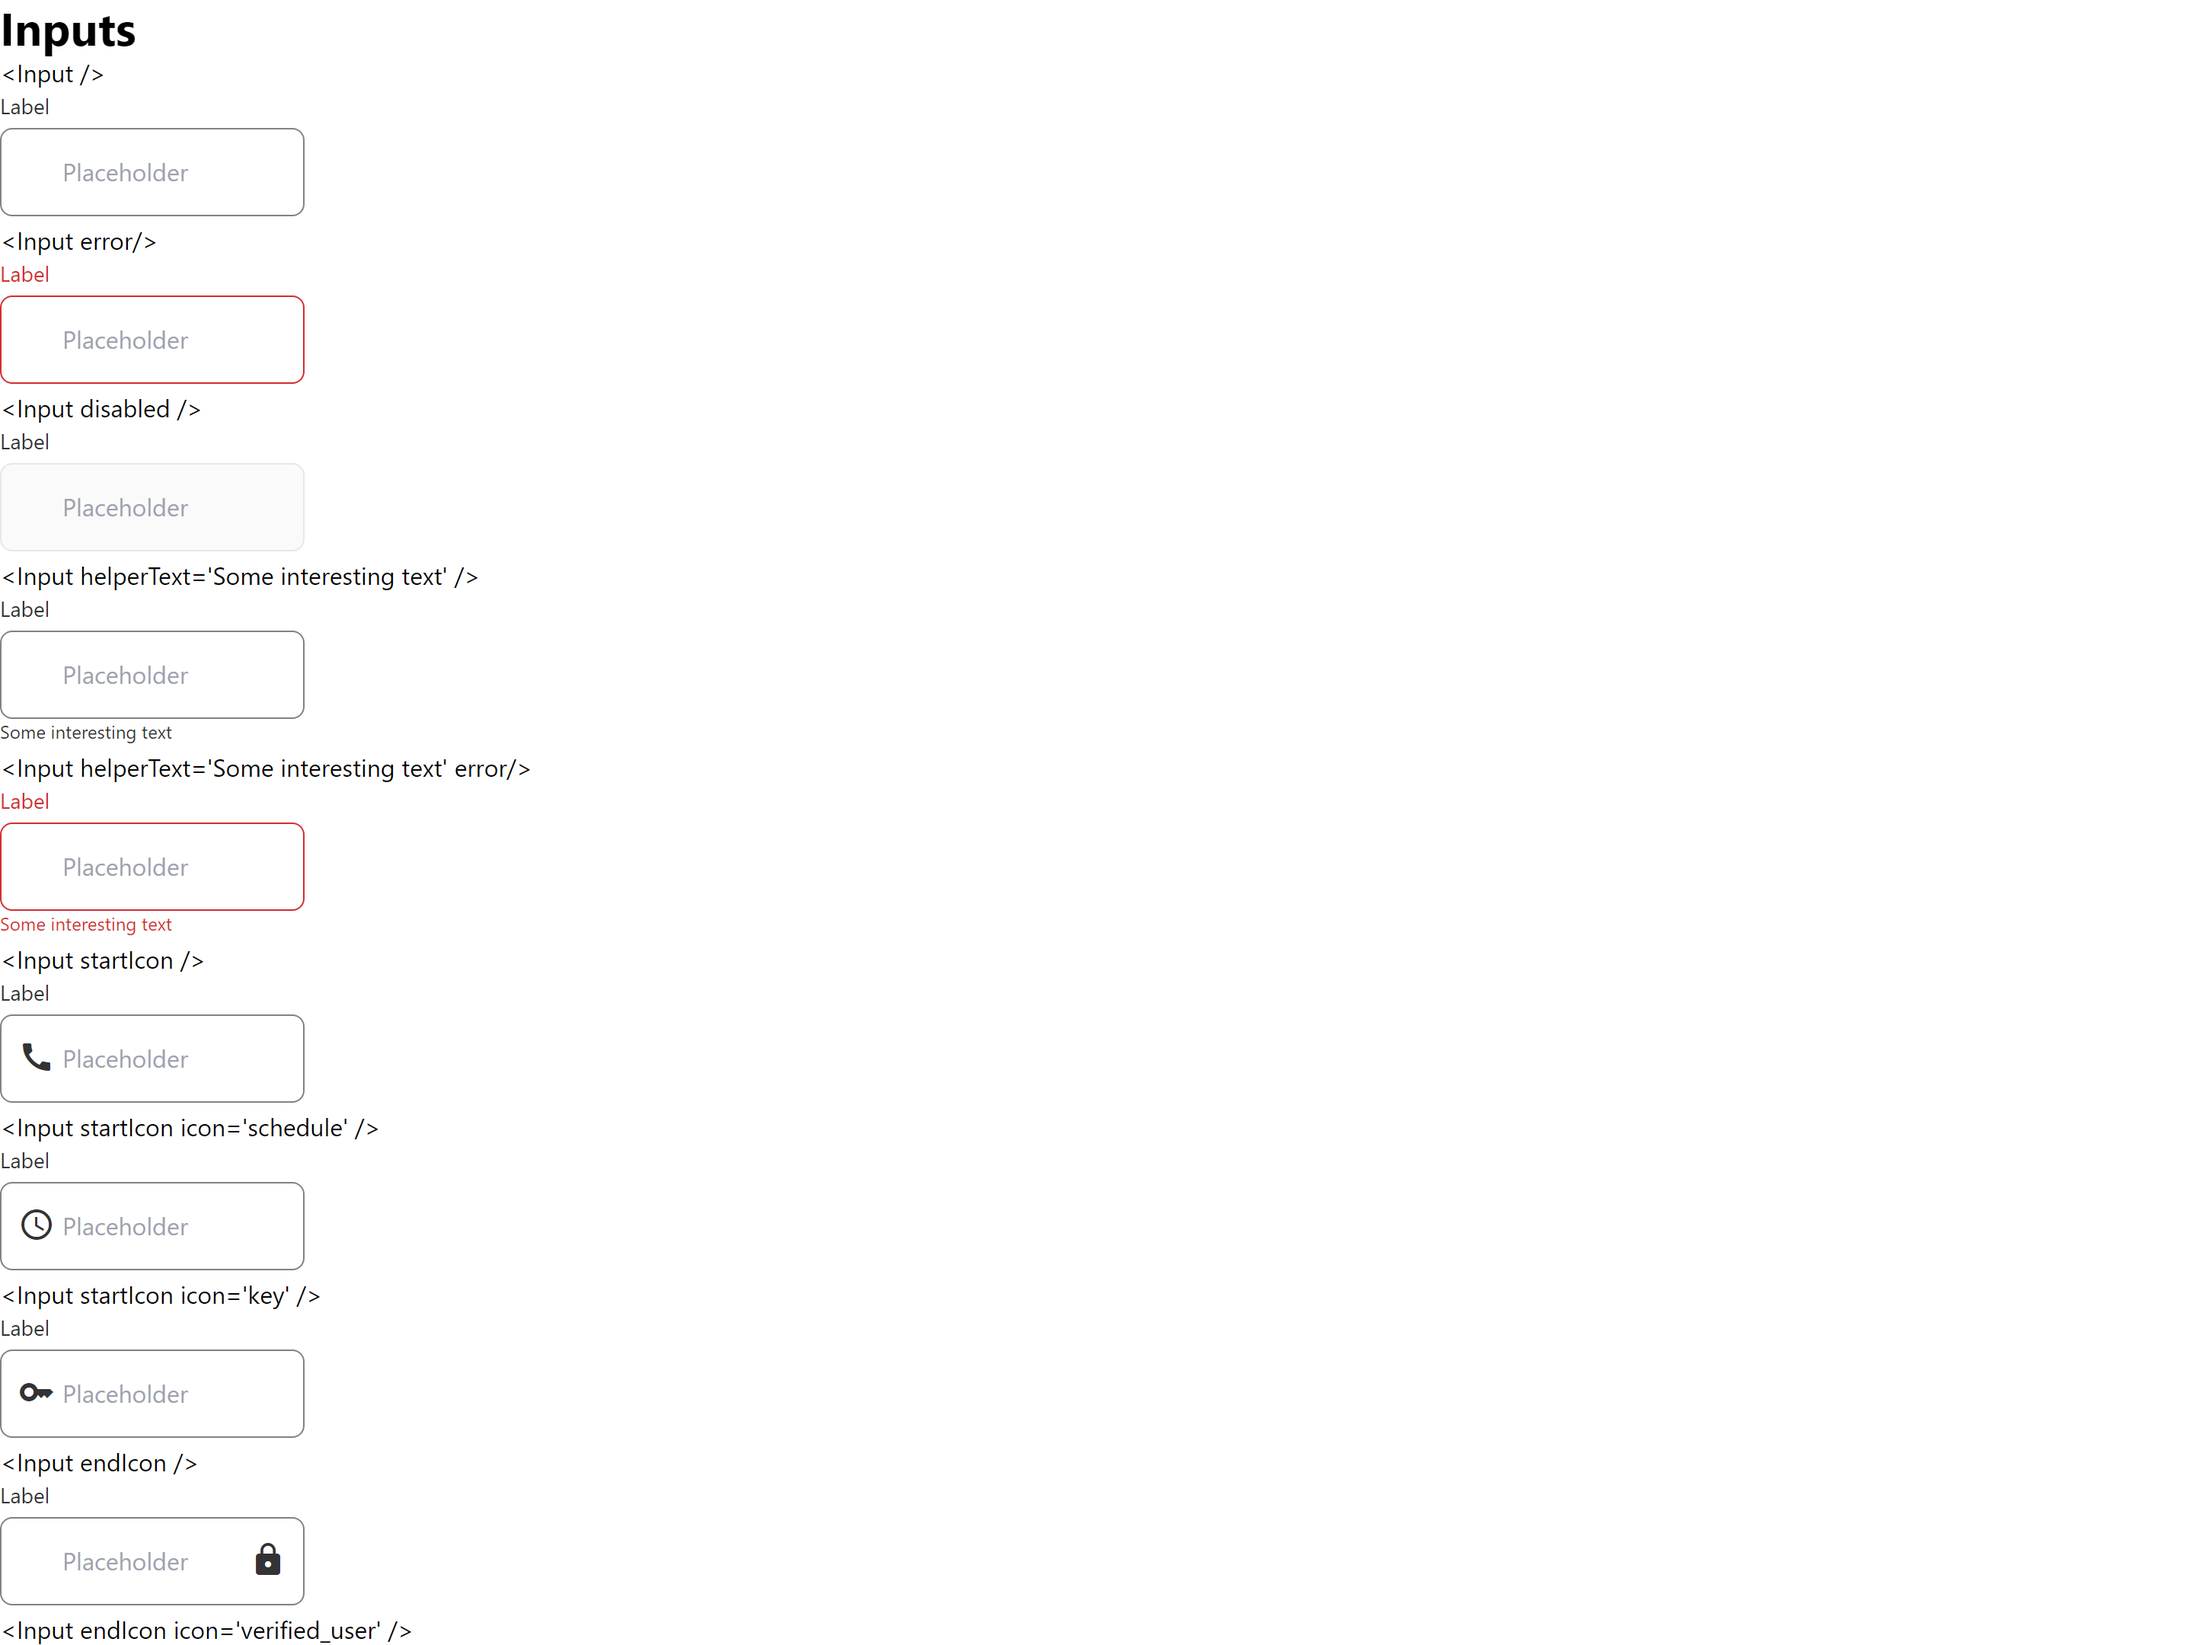
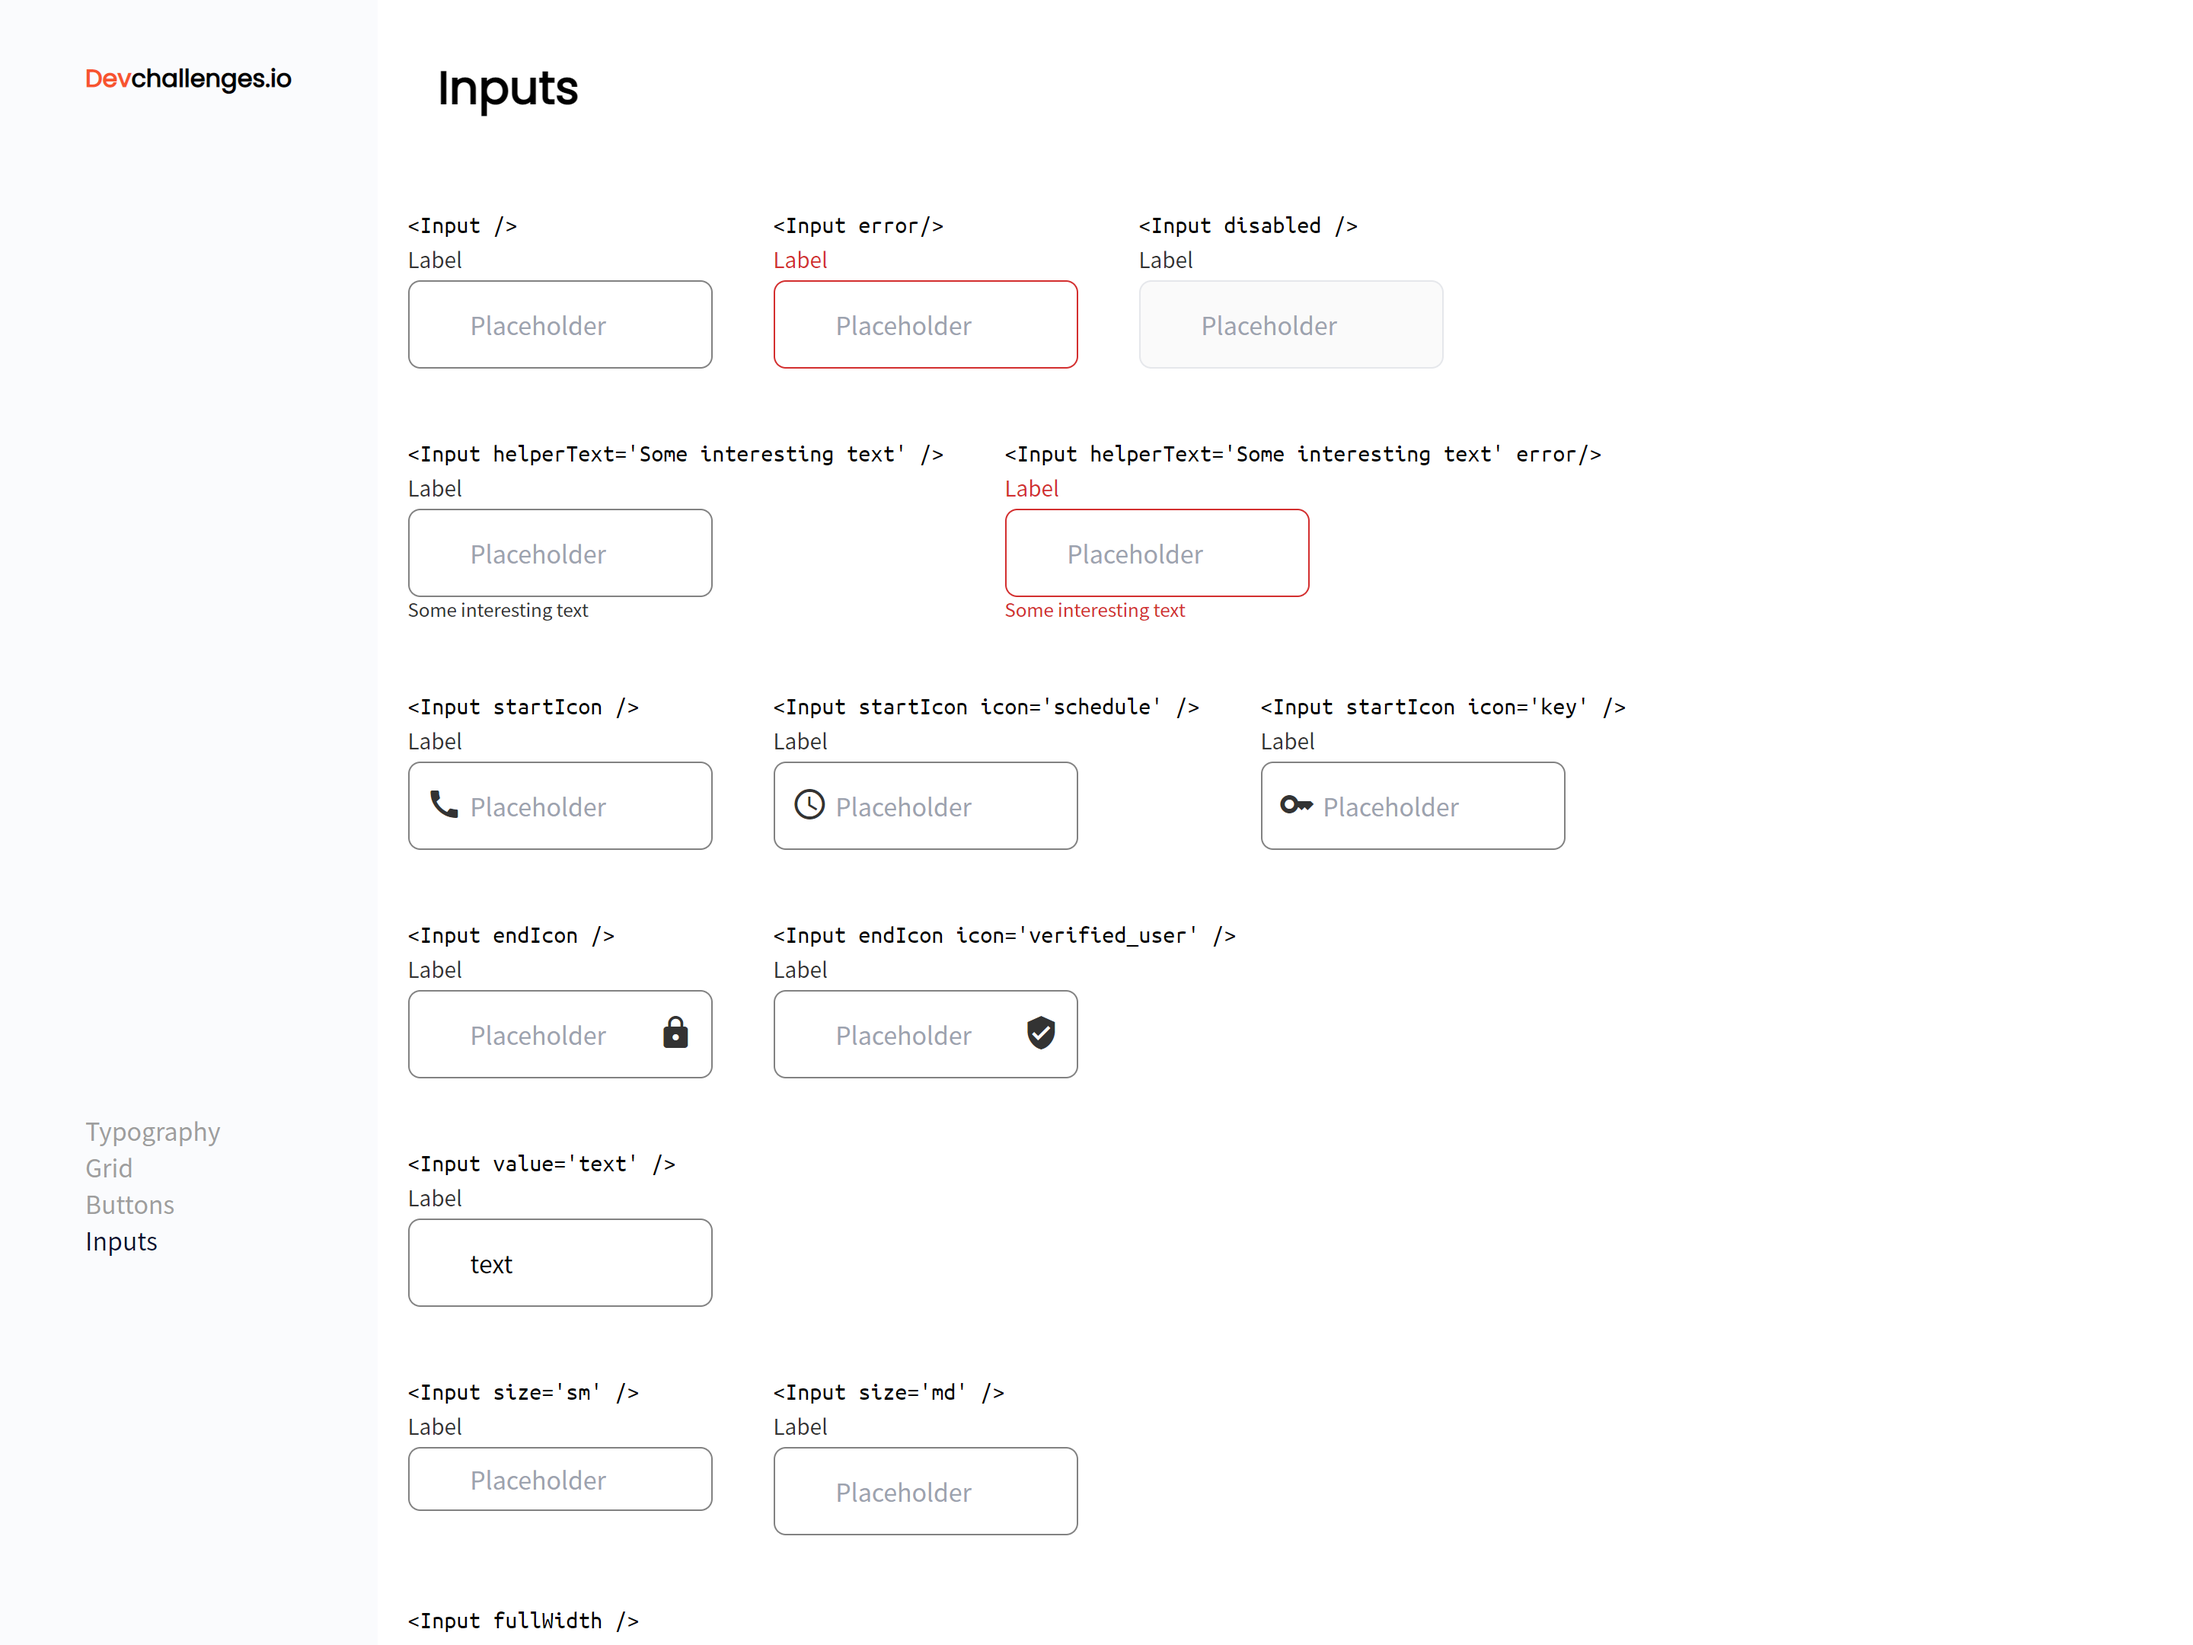
update

diff --git a/src/components/Content/Content.js b/src/components/Content/Content.js
@@ -2,40 +2,90 @@ import Input from '../Input/Input';
 
 function Content() {
   return (
-    <div className="Content">
-      <h1 className="text-3xl font-bold">
+    <div>
+      <h1 className="pl-10 py-10 text-3xl font-poppins font-bold">
         Inputs
       </h1>
-      <p>{`<Input />`}</p>
-      <Input />
-      <p>{`<Input error/>`}</p>
-      <Input error />
-      <p>{`<Input disabled />`}</p>
-      <Input disabled />
-      <p>{`<Input helperText='Some interesting text' />`}</p>
-      <Input helperText='Some interesting text' />
-      <p>{`<Input helperText='Some interesting text' error/>`}</p>
-      <Input helperText='Some interesting text' error />
-      <p>{`<Input startIcon />`}</p>
-      <Input startIcon />
-      <p>{`<Input startIcon icon='schedule' />`}</p>
-      <Input startIcon icon='schedule'/>
-      <p>{`<Input startIcon icon='key' />`}</p>
-      <Input startIcon icon='key' />
-      <p>{`<Input endIcon />`}</p>
-      <Input endIcon />
-      <p>{`<Input endIcon  icon='verified_user' />`}</p>
-      <Input endIcon  icon='verified_user'/>
-      <p>{`<Input value='text' />`}</p>
-      <Input value='text' />
-      <p>{`<Input size='sm' />`}</p>
-      <Input size='sm' />
-      <p>{`<Input size='md' />`}</p>
-      <Input size='md' />
-      <p>{`<Input fullWidth />`}</p>
-      <Input fullWidth />
-      <p>{`<Input multiline row='4' />`}</p>
-      <Input multiline row='4' />
+      <div className='flex row flex-wrap'>
+        <div className='m-5'>
+          <p className='font-ubuntuMono'>{`<Input />`}</p>
+          <Input />
+        </div>
+        <div className='m-5'>
+          <p className='font-ubuntuMono'>{`<Input error/>`}</p>
+          <Input error />
+        </div>
+        <div className='m-5'>
+          <p className='font-ubuntuMono'>{`<Input disabled />`}</p>
+          <Input disabled />
+        </div>
+      </div>
+      <div className='flex row'>
+        <div className='m-5'>
+          <p className='font-ubuntuMono'>{`<Input helperText='Some interesting text' />`}</p>
+          <Input helperText='Some interesting text' />
+        </div>
+        <div className='m-5'>
+          <p className='font-ubuntuMono'>{`<Input helperText='Some interesting text' error/>`}</p>
+          <Input helperText='Some interesting text' error />
+        </div>
+      </div>
+      <div className='flex row flex-wrap'>
+        <div className='m-5'>
+        <p className='font-ubuntuMono'>{`<Input startIcon />`}</p>
+        <Input startIcon />
+        </div>
+        <div className='m-5'>
+          <p className='font-ubuntuMono'>{`<Input startIcon icon='schedule' />`}</p>
+          <Input startIcon icon='schedule'/>
+        </div>
+        <div className='m-5'>
+          <p className='font-ubuntuMono'>{`<Input startIcon icon='key' />`}</p>
+          <Input startIcon icon='key' />
+        </div>
+      </div>
+      <div className='flex row flex-wrap'>
+        <div className='m-5'>
+          <p className='font-ubuntuMono'>{`<Input endIcon />`}</p>
+          <Input endIcon />
+        </div>
+        <div className='m-5'>
+          <p className='font-ubuntuMono'>{`<Input endIcon  icon='verified_user' />`}</p>
+          <Input endIcon  icon='verified_user'/>
+        </div>
+      </div>
+      <div className='m-5'>
+        <p className='font-ubuntuMono'>{`<Input value='text' />`}</p>
+        <Input value='text' />
+      </div>
+      <div className='flex row flex-wrap'>
+        <div className='m-5'>
+          <p className='font-ubuntuMono'>{`<Input size='sm' />`}</p>
+          <Input size='sm' />
+        </div>
+        <div className='m-5'>
+          <p className='font-ubuntuMono'>{`<Input size='md' />`}</p>
+          <Input size='md' />
+        </div>
+      </div>
+      <div className='m-5'>
+        <p className='font-ubuntuMono'>{`<Input fullWidth />`}</p>
+        <Input fullWidth />
+      </div>
+      <div className='m-5'>
+        <p className='font-ubuntuMono'>{`<Input multiline row='4' />`}</p>
+        <Input multiline row='4' />
+      </div>
+      <footer className='mt-8 font-montserrat text-center text-[#A9A9A9]'>created by <b>
+          <a
+            href="https://github.com/eggwaffle"
+            target="_blank"
+            rel="noopener noreferrer"
+          >
+            eggwaffle
+          </a>
+        </b> - devChallenges.io
+      </footer>
     </div>
   );
 }

diff --git a/src/components/Navbar/Navbar.js b/src/components/Navbar/Navbar.js
@@ -1,15 +1,15 @@
 function Navbar() {
   return (
-    <div className="bg-[#FAFBFD]">
-      <div className="text-semibold">
+    <div className="grid grid-rows-2 px-14 pt-10 bg-[#FAFBFD]">
+      <div className="font-semibold font-poppins">
         <h2><b className="text-[#F7542E]">Dev</b>challenges.io</h2>
       </div>
       <nav>
         <ul className='list-none'>
-          <li className='text-medium text-[#9E9E9E]'>Typography</li>
-          <li className='text-medium text-[#9E9E9E]'>Grid</li>
-          <li className='text-medium text-[#9E9E9E]'>Buttons</li>
-          <li className='text-medium text-[#090F31]'>Inputs</li>
+          <li className='font-medium text-[#9E9E9E]'>Typography</li>
+          <li className='font-medium text-[#9E9E9E]'>Grid</li>
+          <li className='font-medium text-[#9E9E9E]'>Buttons</li>
+          <li className='font-medium text-[#090F31]'>Inputs</li>
         </ul>
       </nav>
     </div>

diff --git a/tailwind.config.js b/tailwind.config.js
@@ -9,7 +9,14 @@ module.exports = {
     './src/**/*.{js,jsx,ts,tsx}',
   ],
   theme: {
-    extend: {},
+    extend: {
+      fontFamily: {
+        'montserrat' : ['Montserrat', 'sans-serif'],
+        'notoSansJP' : ['"Noto Sans JP"', 'sans-serif'],
+        'poppins' : ['Poppins', 'sans-serif'],
+        'ubuntuMono' : ['"Ubuntu Mono"', 'monospace'],
+      },
+    },
   },
   plugins: [],
 }

diff --git a/src/index.css b/src/index.css
@@ -2,4 +2,5 @@
 @tailwind components;
 @tailwind utilities;
 
+@import url('https://fonts.googleapis.com/css2?family=Montserrat&family=Noto+Sans+JP&family=Poppins&family=Ubuntu+Mono&display=swap');
 @import url(https://fonts.googleapis.com/icon?family=Material+Icons);

diff --git a/src/components/App/App.js b/src/components/App/App.js
@@ -3,7 +3,7 @@ import Content from '../Content/Content';
 
 function App() {
   return (
-    <div className="flex flex-row">
+    <div className="flex flex-row font-notoSansJP">
       <Navbar />
       <Content />
     </div>
